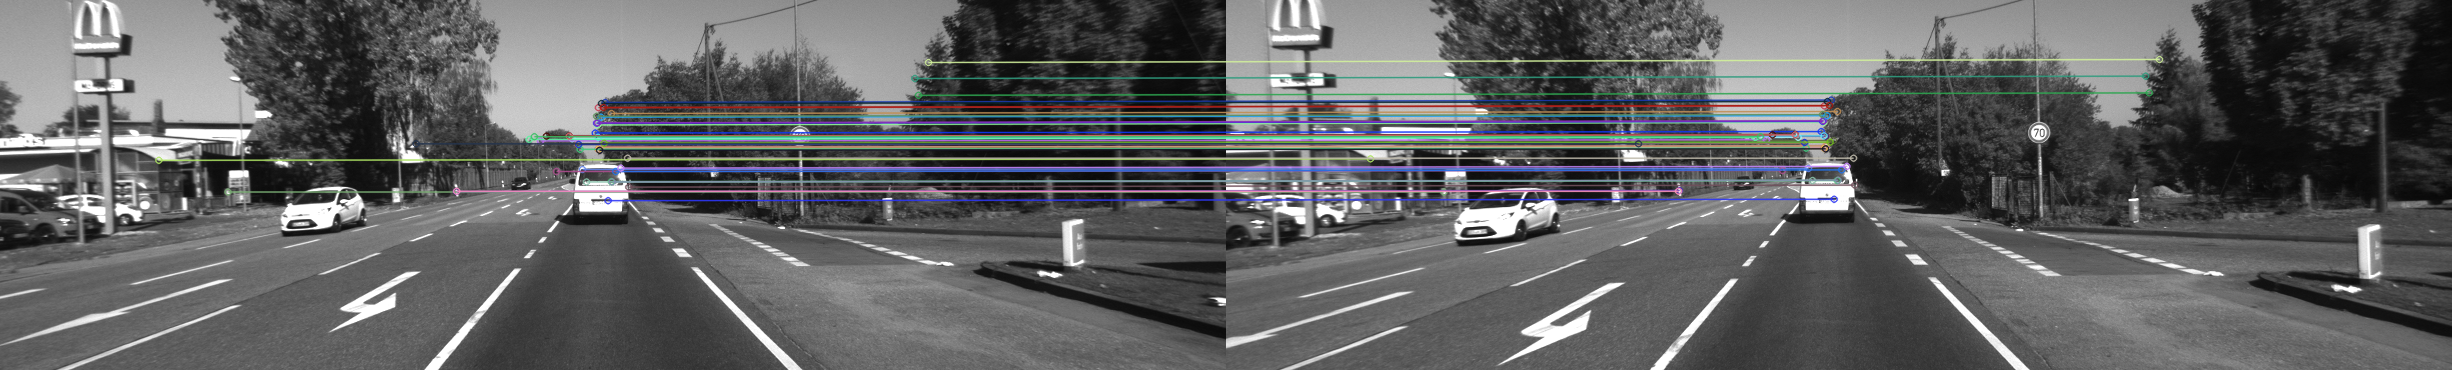
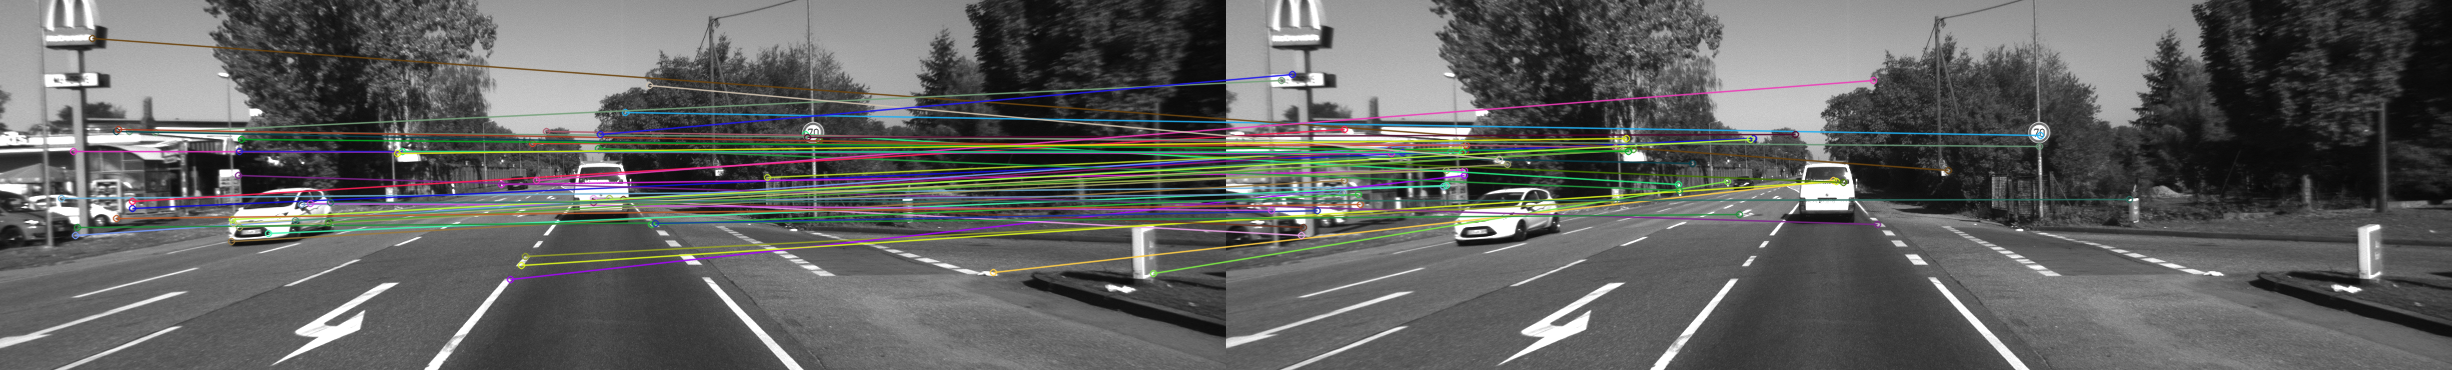
v1

diff --git a/visual_odometry_feature.py b/visual_odometry_feature.py
@@ -2,7 +2,7 @@ import numpy as np
 import cv2
 from stereo_matcher import StereoMatcher
 
-class VisualOdometry:
+class VisualOdometryFeature:
     def __init__(self, P0, P1, window_size=7, max_disp=128):
         self.P0 = P0
         self.P1 = P1
@@ -13,43 +13,12 @@ class VisualOdometry:
         
         self.orb = cv2.ORB_create(3000) # type: ignore
         self.bf = cv2.BFMatcher(cv2.NORM_HAMMING, crossCheck=True)
-        self.matcher = StereoMatcher(window_size=window_size, max_disp=max_disp)
         
         self.current_pose = np.eye(4)
         self.prev_img_l = None
         self.prev_kp = None
         self.prev_des = None
         self.prev_3d = None
-
-    def _get_3d_points(self, img_l, img_r, kps):
-        """
-        Compute 3D points for given keypoints in img_l using stereo matching.
-        """
-        disp_l = self.matcher.compute_disparity(img_l, img_r, method='SSD')
-        disp_l = self.matcher.post_process(disp_l)
-        
-        pts_3d = []
-        valid_idx = []
-        
-        for i, kp in enumerate(kps):
-            u, v = int(kp.pt[0]), int(kp.pt[1])
-            if v >= disp_l.shape[0] or u >= disp_l.shape[1]:
-                continue
-                
-            d = disp_l[v, u]
-            if d <= 0:
-                continue
-                
-            # Z = f * B / d
-            z = (self.fx * self.baseline) / d
-            # Metric scale: X = (u - cx) * Z / f, Y = (v - cy) * Z / f
-            x = (u - self.cx) * z / self.fx
-            y = (v - self.cy) * z / self.fx
-            
-            pts_3d.append([x, y, z])
-            valid_idx.append(i)
-            
-        return np.array(pts_3d, dtype=np.float32), valid_idx
 
     def _get_disparity(self, img_l, img_r, kps_l, des_l):
         """Matches features between left and right image to get sparsity at time t."""
@@ -106,22 +75,24 @@ class VisualOdometry:
         kp_l, des_l = self.orb.detectAndCompute(img_l, None)
         
         if self.prev_img_l is None:
+            # Re-triangulate for the first frame
+            pts_3d, valid_idx = self._get_3d_points_feature_matching(img_l, img_r, kp_l)
+            
             self.prev_img_l = img_l
-            self.prev_kp = kp_l
-            self.prev_des = des_l
+            self.prev_kp = [kp_l[i] for i in valid_idx]
+            self.prev_des = des_l[valid_idx]
+            self.prev_3d = pts_3d
             return self.current_pose, None
 
+        # Temporal matching (Previous Left to Current Left)
         matches = self.bf.match(self.prev_des, des_l) # type: ignore
-        matches = sorted(matches, key=lambda x: x.distance)
         
-        prev_pts_objs = [self.prev_kp[m.queryIdx] for m in matches] # type: ignore
-        curr_pts = np.array([kp_l[m.trainIdx].pt for m in matches], dtype=np.float32)
-        prev_pts = np.array([self.prev_kp[m.queryIdx].pt for m in matches], dtype=np.float32)
+        idx_prev = [m.queryIdx for m in matches]
+        idx_curr = [m.trainIdx for m in matches]
         
-        pts_3d_prev, valid_idx = self._get_3d_points(self.prev_img_l, img_r, prev_pts_objs)
-        curr_pts_valid = curr_pts[valid_idx]
-        prev_pts_valid = prev_pts[valid_idx]
-        matches_valid = [matches[i] for i in valid_idx]
+        pts_3d_prev = self.prev_3d[idx_prev]
+        pts_2d_curr = np.array([kp_l[i].pt for i in idx_curr], dtype=np.float32)
+        pts_2d_prev = np.array([self.prev_kp[i].pt for i in idx_prev], dtype=np.float32)
         
         if len(pts_3d_prev) < 10:
             return self.current_pose, None
@@ -133,32 +104,32 @@ class VisualOdometry:
         inlier_mask = None
         
         if use_ransac:
-            # Added Essential Matrix filter for better performance
-            E, e_mask = cv2.findEssentialMat(prev_pts_valid, curr_pts_valid, K, method=cv2.RANSAC, prob=0.999, threshold=1.0)
+            # Step 1: Essential Matrix to filter matching outliers
+            E, e_mask = cv2.findEssentialMat(pts_2d_prev, pts_2d_curr, K, method=cv2.RANSAC, prob=0.999, threshold=1.0)
             
             if e_mask is not None:
                 inliers_idx = np.where(e_mask.ravel() == 1)[0]
                 pts_3d_filt = pts_3d_prev[inliers_idx]
-                pts_2d_filt = curr_pts_valid[inliers_idx]
+                pts_2d_filt = pts_2d_curr[inliers_idx]
             else:
-                pts_3d_filt, pts_2d_filt, inliers_idx = pts_3d_prev, curr_pts_valid, np.arange(len(pts_3d_prev))
+                pts_3d_filt, pts_2d_filt, inliers_idx = pts_3d_prev, pts_2d_curr, np.arange(len(pts_3d_prev))
 
+            # Step 2: solvePnPRansac for robust pose
             success, rvec, tvec, inliers_pnp = cv2.solvePnPRansac(
                 pts_3d_filt, pts_2d_filt, K, dist_coeffs, 
-                flags=cv2.SOLVEPNP_ITERATIVE, confidence=0.999, reprojectionError=1.0 # Reduced error threshold
+                flags=cv2.SOLVEPNP_ITERATIVE, confidence=0.999, reprojectionError=1.0
             )
             if success and inliers_pnp is not None:
                 inlier_mask = inliers_idx[inliers_pnp.flatten()]
         else:
             success, rvec, tvec = cv2.solvePnP(
-                pts_3d_prev, curr_pts_valid, K, dist_coeffs, flags=cv2.SOLVEPNP_ITERATIVE # type: ignore
+                pts_3d_prev, pts_2d_curr, K, dist_coeffs, flags=cv2.SOLVEPNP_ITERATIVE # type: ignore
             )
             inlier_mask = np.arange(len(pts_3d_prev))
         
         if success:
             R, _ = cv2.Rodrigues(rvec)
             if not use_stereo_scale:
-                # Normalize translation if not using stereo scale (monocular unit scale)
                 norm = np.linalg.norm(tvec)
                 if norm > 0:
                     tvec = tvec / norm
@@ -169,18 +140,22 @@ class VisualOdometry:
             
             # Update world pose
             self.current_pose = self.current_pose @ np.linalg.inv(T_rel)
+            
+            # Re-triangulate for next frame
+            pts_3d_curr, valid_idx = self._get_3d_points_feature_matching(img_l, img_r, kp_l)
+            
+            self.prev_3d = pts_3d_curr
+            self.prev_kp = [kp_l[i] for i in valid_idx]
+            self.prev_des = des_l[valid_idx]
+            self.prev_img_l = img_l
         
         debug_info = {
-            'matches': matches_valid,
+            'matches': matches,
             'prev_kp': self.prev_kp,
             'curr_kp': kp_l,
             'inliers': inlier_mask,
             'prev_img': self.prev_img_l,
             'curr_img': img_l
         }
-
-        self.prev_img_l = img_l
-        self.prev_kp = kp_l
-        self.prev_des = des_l
         
         return self.current_pose, debug_info

diff --git a/vo.py b/vo.py
@@ -1,0 +1,140 @@
+import cv2
+import numpy as np
+
+class StereoVO:
+    def __init__(self, K, baseline, max_features=1500):
+        self.K = K
+        self.baseline = baseline
+        self.orb = cv2.ORB_create(nfeatures=max_features)
+        
+        # Matcher for frame-to-frame (temporal) and left-to-right (stereo)
+        self.bf = cv2.BFMatcher(cv2.NORM_HAMMING, crossCheck=True)
+        
+        # Current camera pose (relative to start)
+        self.T_curr = np.eye(4)
+        
+        # Frame storage
+        self.prev_img_l = None
+        self.prev_kps_l = None
+        self.prev_des_l = None
+        self.prev_3d = None
+        
+    def _get_disparity(self, img_l, img_r, kps_l, des_l):
+        """Matches features between left and right image to get sparsity at time t."""
+        kps_r, des_r = self.orb.detectAndCompute(img_r, None)
+        matches = self.bf.match(des_l, des_r)
+        
+        # Epipolar constraint: check vertical alignment and disparity range
+        valid_matches = []
+        for m in matches:
+            pt_l = kps_l[m.queryIdx].pt
+            pt_r = kps_r[m.trainIdx].pt
+            
+            # KITTI is rectified, so y should be similar. Also disparity must be positive.
+            if abs(pt_l[1] - pt_r[1]) < 2 and pt_l[0] > pt_r[0]:
+                valid_matches.append(m)
+        
+        disparities = np.zeros(len(kps_l))
+        for m in valid_matches:
+            pt_l = kps_l[m.queryIdx].pt
+            pt_r = kps_r[m.trainIdx].pt
+            disparities[m.queryIdx] = pt_l[0] - pt_r[0]
+            
+        return disparities
+
+    def process_frame_pair(self, img_l, img_r, use_ransac=True, use_stereo_scale=True):
+        """Processes a single stereo pair at time t."""
+        kps_l, des_l = self.orb.detectAndCompute(img_l, None)
+        
+        if self.prev_img_l is None:
+            disparity = self._get_disparity(img_l, img_r, kps_l, des_l)
+            pts_2d = np.array([kp.pt for kp in kps_l])
+            valid = disparity > 0
+            
+            self.prev_img_l = img_l
+            self.prev_kps_l = kps_l
+            self.prev_des_l = des_l
+            
+            f, cx, cy = self.K[0,0], self.K[0,2], self.K[1,2]
+            z = (f * self.baseline) / (disparity[valid] + 1e-6)
+            x = (pts_2d[valid, 0] - cx) * z / f
+            y = (pts_2d[valid, 1] - cy) * z / f
+            self.prev_3d = np.stack((x, y, z), axis=-1)
+            
+            self.prev_kps_l = [kps_l[i] for i, v in enumerate(valid) if v]
+            self.prev_des_l = des_l[valid]
+            
+            return self.T_curr, None
+
+        # Temporal matching
+        matches = self.bf.match(self.prev_des_l, des_l)
+        idx_prev = [m.queryIdx for m in matches]
+        idx_curr = [m.trainIdx for m in matches]
+        pts_3d_prev = self.prev_3d[idx_prev]
+        pts_2d_curr = np.array([kps_l[i].pt for i in idx_curr])
+        pts_2d_prev = np.array([self.prev_kps_l[i].pt for i in idx_prev])
+        
+        if use_ransac:
+            # 1. Estimate Essential Matrix with RANSAC to satisfy project requirement
+            # This finds the geometric relationship between 2D-2D correspondences
+            E, mask = cv2.findEssentialMat(pts_2d_prev, pts_2d_curr, self.K, 
+                                          method=cv2.RANSAC, prob=0.999, threshold=1.0)
+            
+            # 2. Use the inliers from the Essential matrix to refine pose with PnP
+            # SolvePnP is used to recover the absolute metric scale from 3D-2D matches
+            if mask is not None:
+                inliers_idx = np.where(mask.ravel() == 1)[0]
+                pts_3d_filt = pts_3d_prev[inliers_idx]
+                pts_2d_filt = pts_2d_curr[inliers_idx]
+            else:
+                pts_3d_filt, pts_2d_filt, inliers_idx = pts_3d_prev, pts_2d_curr, np.arange(len(pts_3d_prev))
+
+            retval, rvec, tvec, inliers_pnp = cv2.solvePnPRansac(
+                pts_3d_filt, pts_2d_filt, self.K, distCoeffs=None,
+                flags=cv2.SOLVEPNP_ITERATIVE, confidence=0.999, reprojectionError=1.0)
+            
+            if retval and inliers_pnp is not None:
+                inliers = inliers_idx[inliers_pnp.flatten()]
+        else:
+            retval, rvec, tvec = cv2.solvePnP(pts_3d_prev, pts_2d_curr, self.K, distCoeffs=None)
+            inliers = np.arange(len(pts_3d_prev))
+
+        if retval:
+            if not use_stereo_scale:
+                # Monocular case: normalize translation scale to 1 (arbitrary)
+                scale = np.linalg.norm(tvec)
+                if scale > 0: tvec /= scale
+                
+            R, _ = cv2.Rodrigues(rvec)
+            T_rel = np.eye(4)
+            T_rel[:3, :3] = R
+            T_rel[:3, 3] = tvec.ravel()
+            
+            if use_ransac:
+                matches_mask = np.zeros(len(matches), dtype=np.int32)
+                if inliers is not None:
+                    matches_mask[inliers.flatten()] = 1
+            else:
+                matches_mask = np.ones(len(matches), dtype=np.int32)
+
+            debug_info = (self.prev_img_l, img_l, self.prev_kps_l, kps_l, matches, matches_mask)
+            self.T_curr = self.T_curr @ np.linalg.inv(T_rel)
+            
+            # Re-triangulate for next step
+            disparity = self._get_disparity(img_l, img_r, kps_l, des_l)
+            valid = disparity > 0
+            f, cx, cy = self.K[0,0], self.K[0,2], self.K[1,2]
+            z = (f * self.baseline) / (disparity[valid] + 1e-6)
+            
+            pts_2d_valid = np.array([kp.pt for i, kp in enumerate(kps_l) if valid[i]])
+            x = (pts_2d_valid[:, 0] - cx) * z / f
+            y = (pts_2d_valid[:, 1] - cy) * z / f
+            
+            self.prev_3d = np.stack((x, y, z), axis=-1)
+            self.prev_kps_l = [kps_l[i] for i, v in enumerate(valid) if v]
+            self.prev_des_l = des_l[valid]
+            self.prev_img_l = img_l
+            
+            return self.T_curr, debug_info
+        
+        return self.T_curr, None

diff --git a/run_vo.py b/run_vo.py
@@ -9,7 +9,7 @@ from utils import load_vo_calib, load_poses, compute_ate, compute_rpe
 
 def main():
     # --- Configuration ---
-    sequences = ['03', '04']
+    sequences = ['00', '01', '02', '03', '04', '05', '06', '07', '08', '09', '10']  # Example sequences to process
     vo_data_root = 'vo_data'
     output_dir = 'vo_results'
     csv_path = os.path.join(output_dir, 'vo_results.csv')
